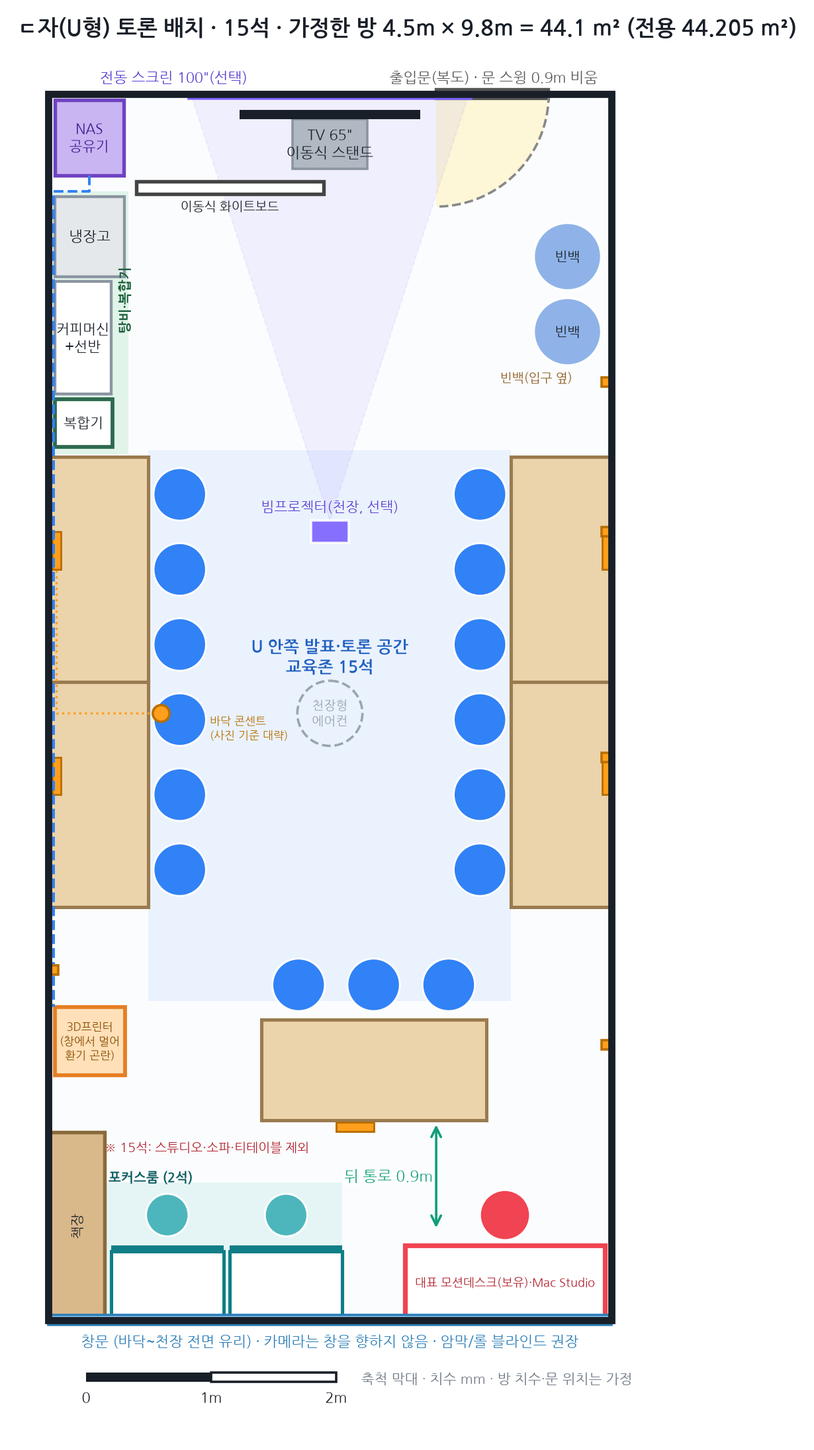
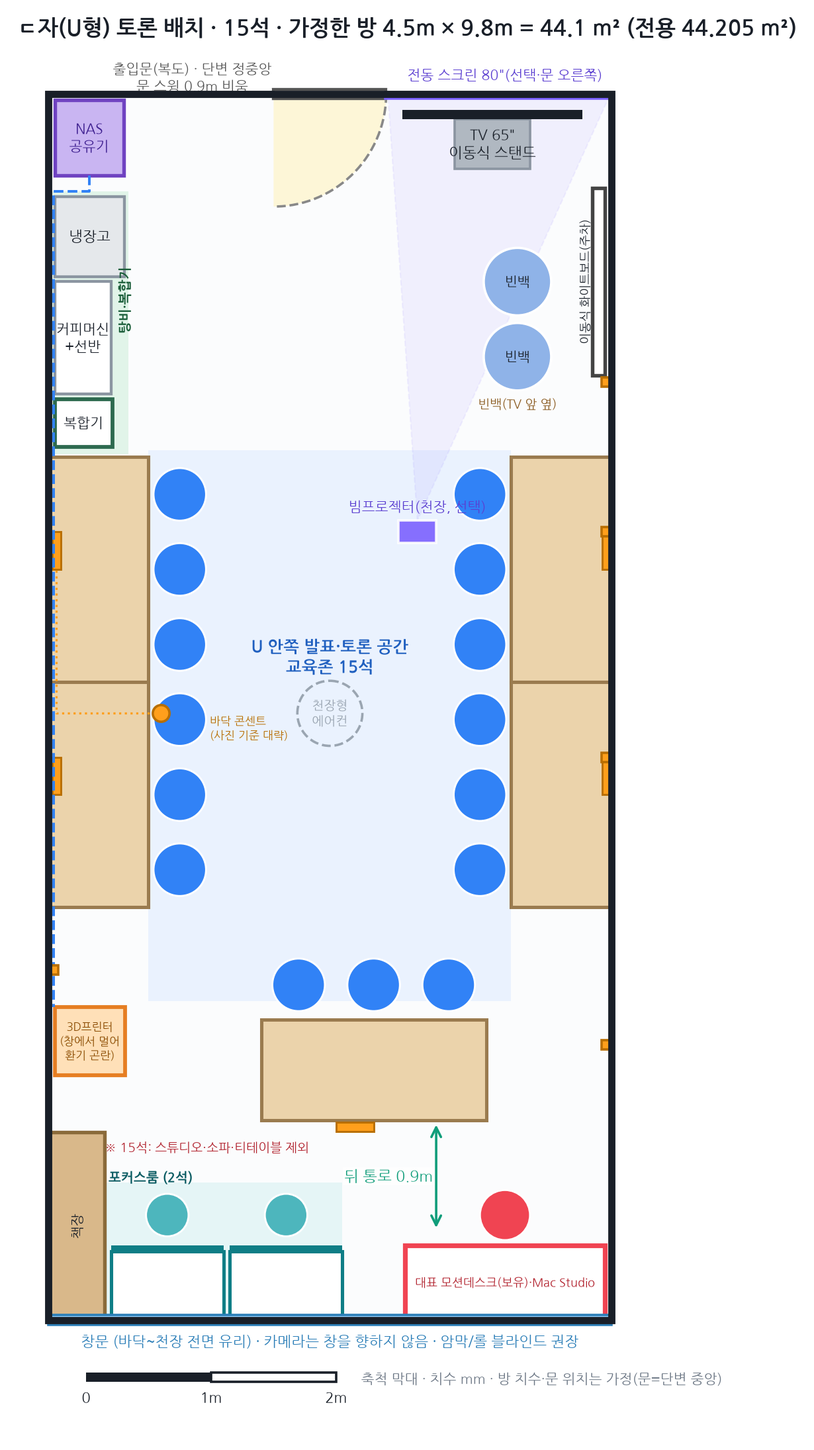
Move entrance door to center of short wall; TV/screen right of door, whiteboard parked on right wall

Changed region(s): [[0.4943, 0.0311, 0.7724, 0.2795], [0.1236, 0.0311, 0.4943, 0.1553], [0.3707, 0.3416, 0.5561, 0.3726]]

diff --git a/index.html b/index.html
@@ -36,7 +36,7 @@
  <div class="eyebrow">한눈에</div>
  <h2>이 공간에 넣을 것들</h2>
  <p class="lead">전용 44.205㎡(약 13.4평) 지식산업센터 사무실에 교육 책상 12석 + 65형 TV, 대표석(모션데스크는 집에 있는 것), 책장 배경 촬영 코너, 포커스룸, 라운지, 탕비·복합기, NAS·공유기, 이동식 화이트보드, 3D 프린터 코너를 넣는 계획이에요.</p>
- <div class="callout warn reveal"><b>가정한 것</b> · 보내주신 방 사진 3장으로 <b>폭 약 4.5m × 길이 약 9.8m = 44.1㎡의 길쭉한 직사각형</b>을 추정했어요(전용 44.205㎡ 기준, 실측 아님). 한쪽 짧은 벽은 <b>바닥~천장 전면 유리창</b>, 반대쪽 짧은 벽에 <b>출입문</b>(중앙에서 살짝 한쪽, 폭 약 0.9m·안쪽 여닫이 가정)이 있고, 바닥 콘센트는 방 중간쯤 한쪽 벽 가까이 1개를 대략 표시했어요. 천장형 에어컨은 중앙. <b>실측치가 오면 배치도를 다시 그릴게요.</b></div>
+ <div class="callout warn reveal"><b>가정한 것</b> · 보내주신 방 사진 3장으로 <b>폭 약 4.5m × 길이 약 9.8m = 44.1㎡의 길쭉한 직사각형</b>을 추정했어요(전용 44.205㎡ 기준, 실측 아님). 한쪽 짧은 벽은 <b>바닥~천장 전면 유리창</b>, 반대쪽 짧은 벽에 <b>출입문</b>(단변 정중앙, 폭 약 0.9m·안쪽 여닫이 가정)이 있고, 바닥 콘센트는 방 중간쯤 한쪽 벽 가까이 1개를 대략 표시했어요. 천장형 에어컨은 중앙. <b>실측치가 오면 배치도를 다시 그릴게요.</b></div>
  <div class="callout reveal" style="margin-top:12px"><b>스타일 가정</b> · 애플 사용자(Mac Studio·MacBook), 깔끔한 미니멀·모던, 유튜브 촬영(유하님과 함께), 화이트/오크/그레이 톤, USB-C·맥 호환 장비를 우선했어요.</div>
  <div class="grid g3p reveal" style="margin-top:20px">
   <div class="card"><h3>배치</h3><p>ㄷ자 12석이 추천. 15석도 그려봤지만 포커스룸·라운지를 거의 포기해야 해요.</p></div>
@@ -51,7 +51,7 @@
  <div class="todo reveal">
   <div class="it hot"><div class="bx"></div><div><b>용달 부르기 — 11/5(목)~11/7(토) 예약 권장 <span class="tg p">TODO</span></b><p>집→사무실로 옮길 짐: <b>NAS</b>, <b>책장</b>, <b>모션데스크</b>(집에 있는 것), 그 밖의 짐(집 책장을 옮기면 구매표의 책장 수량은 줄일 수 있어요). 입주일(2026-11-10, 화) 기준으로 3~5일 전에 예약하는 걸 권장해요. 구매 항목이 아니며 업체·요금은 조사하지 않았어요.</p></div></div>
   <div class="it"><div class="bx"></div><div><b>관리단 업종 확인</b><p>지식산업센터는 입주 가능 업종·시설 사용 규정이 있을 수 있어요. 교육장 운영, 촬영 스튜디오, 3D 프린터(소음·냄새), 이삿짐 엘리베이터 사용 시간을 관리단/관리사무소에 확인하세요.</p></div></div>
-  <div class="it"><div class="bx"></div><div><b>인터넷 개통</b><p>입주 전에 설치 일정을 잡고 공유기·NAS 위치(출입문 쪽 앞 왼쪽 모서리)를 정해두면 첫날부터 쓸 수 있어요.</p></div></div>
+  <div class="it"><div class="bx"></div><div><b>인터넷 개통</b><p>입주 전에 설치 일정을 잡고 공유기·NAS 위치(앞 왼쪽 모서리, 출입문 왼쪽)를 정해두면 첫날부터 쓸 수 있어요.</p></div></div>
   <div class="it"><div class="bx"></div><div><b>전입/사업자 주소</b><p>사업자 주소지·우편물 주소 이전 절차를 확인하세요(필요 서류는 세무서·관리사무소에서 확인).</p></div></div>
   <div class="it"><div class="bx"></div><div><b>NAS 백업 후 이동</b><p>운반 전 중요한 데이터는 별도로 백업해 두세요. NAS는 이삿짐으로 옮기고 사무실에서 공유기 옆에 놓아요.</p></div></div>
   <div class="it"><div class="bx"></div><div><b>실측</b><p>방 가로·세로, 문·창문, 콘센트 위치를 재서 알려주시면 배치도를 확정해요.</p></div></div>
@@ -61,24 +61,24 @@
 <section class="sec" id="layout"><div class="wrap">
  <div class="eyebrow">배치도 · 메인</div>
  <h2>ㄷ자(U형) 토론 12석<br>44.2㎡ 배치도</h2>
- <p class="lead">방이 폭 4.5m로 좁고 길어서, U의 두 다리를 긴 벽에 붙이고 <b>TV는 출입문 쪽 짧은 벽(앞)</b>, U의 바닥(뒤)은 창 쪽으로 잡았어요. 앞 왼쪽이 탕비·복합기·NAS·공유기, 뒤쪽이 대표석+스튜디오·포커스룸·라운지·3D 프린터 코너예요.</p>
+ <p class="lead">방이 폭 4.5m로 좁고 길어서, U의 두 다리를 긴 벽에 붙이고 <b>출입문은 그 짧은 벽(앞) 정중앙, TV는 문 오른쪽</b>, U의 바닥(뒤)은 창 쪽으로 잡았어요. 앞 왼쪽이 탕비·복합기·NAS·공유기, 뒤쪽이 대표석+스튜디오·포커스룸·라운지·3D 프린터 코너예요.</p>
  <div class="lay1 reveal"><figure><a href="assets/img/layout-12.png" target="_blank" rel="noopener"><img src="assets/img/layout-12.png" alt="ㄷ자 12석 배치도" loading="lazy"></a></figure></div>
  <div class="legend reveal"><span><i style="background:#3182F6;border-radius:50%"></i>학습자 의자</span><span><i style="background:#EBD3AB;border:2px solid #9A7B4F"></i>교육 책상</span><span><i style="background:#FFD9DE;border:2px solid #F04452"></i>대표석·스튜디오</span><span><i style="background:#D3F1F2"></i>포커스룸</span><span><i style="background:#FF9F1C"></i>멀티탭(주황 점선=케이블)</span><span><i style="background:#3182F6;opacity:.5"></i>파란 점선=유선 LAN</span><span><i style="background:#7B61FF"></i>빔프로젝터·스크린(선택)</span></div>
  <ul class="checks reveal" style="margin-top:20px">
   <li class="ok"><b>+</b><span>책상 1800×800 4개(3석씩) = 12석: 왼쪽 벽 1개, 오른쪽 벽 1개, 뒤쪽(창 쪽) 2개. U 안쪽 의자 중심 간격 약 2.4m라 앞에서 강사가 서서 수업하기 좋아요.</span></li>
-  <li class="ok"><b>+</b><span>TV~학습자 거리: 가장 가까운 자리 3.0m, 가장 먼 자리 5.3m(65형 화면 높이 809mm 기준 약 3.8×~6.5×) — 권장 4~8× 안. 창이 학습자 뒤라서 TV에 빛이 반사되지 않아요.</span></li>
+  <li class="ok"><b>+</b><span>TV~학습자 거리: 가장 가까운 자리 2.8m, 가장 먼 자리 5.9m(65형 화면 높이 809mm 기준 약 3.5×~7.3×) — 권장 4~8× 안. 창이 학습자 뒤라서 TV에 빛이 반사되지 않아요.</span></li>
   <li class="wn"><b>!</b><span>양쪽 다리(6석)는 의자가 U 안쪽을 향해서 TV를 보려면 몸을 많이 돌려야 해요(약 65~75°). 회전의자·의자 각도 조정이 필요하고, 뒤쪽 6석이 TV를 정면으로 봐요. 좁은 방의 구조적 한계예요.</span></li>
   <li class="wn"><b>!</b><span>통로 점검: 책상 뒤 통로 0.9m, 오른쪽 다리 끝~뒤쪽 책상 사이 0.9m + 오른쪽 벽 통로 0.9m, 출입문 스윙 반경 0.9m는 가구 없이 비움(배치도 노란 부채꼴). 뒤쪽 공간으로 가려면 U 안쪽을 지나 오른쪽 벽 통로로 가야 해서, <b>수업 중 이동은 불편</b>해요(수업 시작 전 입장 권장).</span></li>
-  <li class="wn"><b>!</b><span>TV를 앞(출입문 쪽)에 둔 대신 문이 TV 옆 오른쪽에 있어요. 늦게 오는 사람은 앞쪽 오른쪽 모서리로 들어와 U 안쪽을 지나요. TV는 문 반대쪽(문 열림 반경 밖)에 붙였어요.</span></li>
+  <li class="wn"><b>!</b><span>문이 앞 벽 정중앙이라 늦게 오는 사람은 U 안쪽 한가운데로 바로 들어와요. TV(와 선택 스크린 80형)는 문 열림 반경 밖인 문 오른쪽 벽에 붙였고, 이동식 화이트보드는 오른쪽 벽(세로)에 세워 두었어요. TV가 정면이 아니라 오른쪽으로 치우쳐서, 왼쪽 다리 학습자는 화면을 약간 비스듬히 봐요(TV 스탠드를 살짝 돌려 두면 돼요).</span></li>
   <li><b>·</b><span>빔프로젝터는 천장 설치(선택) → 앞 벽 천장에서 내려오는 100형 전동 스크린. TV와 번갈아 쓰는 구성이라 둘 다 쓰는 날에는 TV를 옆으로 옮겨요.</span></li>
   <li><b>·</b><span>프린터(나중)는 복합기 옆, 3D 프린터는 창 쪽 오른쪽 모서리(환기), 모션데스크는 보유품이고 Mac Studio·키보드·마우스를 올려둔 모습으로 그렸어요. 바닥 콘센트 연결선은 오렌지 점선이에요.</span></li>
  </ul>
- <div class="callout reveal" style="margin-top:14px"><b>TV 위치, 이렇게 골랐어요</b> · ① 창 쪽 짧은 벽: 역광·반사로 탈락(요청대로 제외). ② 긴 벽: 폭이 4.5m라 U가 안 나오고 앞줄이 TV에 1.8m까지 붙어 탈락. ③ <b>출입문 쪽 짧은 벽(채택)</b>: 창이 학습자 뒤라 반사가 없고 TV 거리 3.0~5.3m가 나와요. 대신 문이 TV 옆이라 늦게 오는 사람이 앞을 지나요.</div>
+ <div class="callout reveal" style="margin-top:14px"><b>TV 위치, 이렇게 골랐어요</b> · ① 창 쪽 짧은 벽: 역광·반사로 탈락(요청대로 제외). ② 긴 벽: 폭이 4.5m라 U가 안 나오고 앞줄이 TV에 1.8m까지 붙어 탈락. ③ <b>출입문 쪽 짧은 벽(채택)</b>: 창이 학습자 뒤라 반사가 없어요. 문이 정중앙이라 TV는 문 오른쪽으로 비켜 앉혔고(거리 2.8~5.9m), 대신 TV가 정면에서 약간 치우쳐요.</div>
  <p class="small" style="margin-top:10px">스탠드얼론 이미지: <a href="assets/img/layout-12.png" target="_blank" rel="noopener">layout-12.png ↗</a></p>
 
  <h3 class="sub3" style="margin-top:40px">15석 변형 (참고)</h3>
  <div class="lay1 reveal"><figure><a href="assets/img/layout-15.png" target="_blank" rel="noopener"><img src="assets/img/layout-15.png" alt="ㄷ자 15석 배치도" loading="lazy"></a></figure></div>
- <div class="callout warn reveal" style="margin-top:16px"><b>솔직하게</b> · 15석(책상 5개)은 양쪽 벽에 책상을 2개씩 잇고 뒤쪽 1개를 놓아야 해서 <b>스튜디오(카메라 거리)·소파·티테이블을 뺐고</b>, 포커스룸 2석·대표 데스크는 창가로 눕혔어요. 3D 프린터는 창에서 멀어져 환기가 어렵고, 의자를 빼면 뒤 통로가 0.9m에서 약 0.7m로 줄어요. 가장 먼 자리는 TV에서 6.8m(8.4×)로 65형 한계를 살짝 넘어요. <b>12석을 추천해요.</b></div>
+ <div class="callout warn reveal" style="margin-top:16px"><b>솔직하게</b> · 15석(책상 5개)은 양쪽 벽에 책상을 2개씩 잇고 뒤쪽 1개를 놓아야 해서 <b>스튜디오(카메라 거리)·소파·티테이블을 뺐고</b>, 포커스룸 2석·대표 데스크는 창가로 눕혔어요. 3D 프린터는 창에서 멀어져 환기가 어렵고, 의자를 빼면 뒤 통로가 0.9m에서 약 0.7m로 줄어요. 가장 먼 자리는 TV에서 6.9m(8.5×)로 65형 한계를 살짝 넘어요. <b>12석을 추천해요.</b></div>
 </div></section>
 
 <section class="sec alt" id="buy"><div class="wrap">
@@ -181,14 +181,14 @@
  <h3 class="sub3">이동식 스탠드</h3><div class="grid g2p reveal"><article class="card prod reveal"><div class="ph"><img src="assets/img/p-nsan-fs64b.jpg" alt=" 엔산마운트 FS-64B 상품 사진" loading="lazy" width="720" height="540"></div><div class="bd"><div class="model"></div><h3>엔산마운트 FS-64B</h3><div class="price">188,000원</div><div class="pnote">공식몰 표기가, 무료배송(VIP 제외) · 2026.11.01</div><dl class="spec"><dt>적용</dt><dd>40~70형 · TV 40kg</dd><dt>VESA</dt><dd>최대 600×400</dd><dt>높이</dt><dd>VESA 중심 1200~1500mm</dd><dt>기능</dt><dd>바퀴·선반·높이조절</dd></dl><div class="flags"><span class="tag ok">65형 가능</span></div><div class="links"><a class="" href="https://www.nsan.co.kr/goods/goods_view.php?goodsNo=1000001322" target="_blank" rel="noopener">엔산 공식몰 ↗</a></div><div class="credit">사진: 엔산마운트 공식몰</div></div></article><article class="card prod reveal"><div class="ph none">상품 사진을 확인하지 못했어요<br>(판매 페이지 링크 참고)</div><div class="bd"><div class="model"></div><h3>아이존 TFC-8060 이동형 거치대</h3><div class="price">157,500원</div><div class="pnote">제조사 몰 목록 표기가 · 2026.11.01</div><dl class="spec"><dt>적용</dt><dd>50~100형</dd><dt>하중</dt><dd>100kg</dd></dl><div class="flags"><span class="tag warn">사진·상세 사양은 카테고리 목록에서 확인 못함</span></div><div class="links"><a class="" href="https://eyezoneind.com/category/tv%EA%B1%B0%EC%B9%98%EB%8C%80/167/" target="_blank" rel="noopener">아이존 TV거치대 목록 ↗</a></div></div></article></div>
  <h3 class="sub3">시청거리 (AVIXA DISCAS 4:6:8)</h3>
  <div class="tbl reveal"><table><thead><tr><th>기준</th><th>65형</th><th>55형</th></tr></thead><tbody><tr><td>4×</td><td>3.2m</td><td>2.7m</td></tr><tr><td>6×</td><td>4.9m</td><td>4.1m</td></tr><tr><td>8×</td><td>6.5m</td><td>5.5m</td></tr></tbody></table></div>
- <div class="callout reveal" style="margin-top:14px"><b>이 배치에서는</b> · 12석: 가까운 3.0m ~ 먼 5.3m라 65형이면 충분해요. 15석은 가장 먼 자리 6.8m(8.4×)로 한계에 가까워요. 대표 모션데스크 4종 비교는 보유품을 쓰기로 해서 뺐어요.</div>
+ <div class="callout reveal" style="margin-top:14px"><b>이 배치에서는</b> · 12석: 가까운 2.8m ~ 먼 5.9m라 65형이면 충분해요. 15석은 가장 먼 자리 6.9m(8.5×)로 한계에 가까워요. 대표 모션데스크 4종 비교는 보유품을 쓰기로 해서 뺐어요.</div>
 </div></section>
 
 <section class="sec alt" id="sources"><div class="wrap">
  <div class="eyebrow">출처와 미확인</div>
  <h2>확인하지 못한 것</h2>
  <ul class="checks reveal">
-  <li class="wn"><b>!</b><span>방 치수·문·창·콘센트: 사진으로 추정한 값(약 4.5×9.8m). 문 위치(출입문 쪽 오른쪽)·여닫이 방향·바닥 콘센트 위치는 정확하지 않아요. 배치도의 의자·책상 간격은 그 가정 기준이에요.</span></li>
+  <li class="wn"><b>!</b><span>방 치수·문·창·콘센트: 사진으로 추정한 값(약 4.5×9.8m). 문 위치(출입문 쪽 단변 중앙)·여닫이 방향·바닥 콘센트 위치는 정확하지 않아요. 배치도의 의자·책상 간격은 그 가정 기준이에요.</span></li>
   <li class="wn"><b>!</b><span>소파 치수: 일룸 코모·이안가구 론디 모두 정확한 치수를 확인하지 못함 → 도면 크기는 추정(1400×850).</span></li>
   <li class="wn"><b>!</b><span>한샘 플롯 책장세트 크기가 1세트 기준인지 미확인. 이케아 BILLY의 다나와 가격은 오래된 판매처 표기일 수 있어 공식가 재확인 필요.</span></li>
   <li class="wn"><b>!</b><span>화이트보드 두 제품 모두 캐스터 여부를 상세 확인하지 못함. 룸앤오피스 책상 높이·캐스터 미확인.</span></li>

diff --git a/work/build.py b/work/build.py
@@ -136,7 +136,7 @@ html_out=f'''<!doctype html>
  <div class="eyebrow">한눈에</div>
  <h2>이 공간에 넣을 것들</h2>
  <p class="lead">전용 44.205㎡(약 13.4평) 지식산업센터 사무실에 교육 책상 12석 + 65형 TV, 대표석(모션데스크는 집에 있는 것), 책장 배경 촬영 코너, 포커스룸, 라운지, 탕비·복합기, NAS·공유기, 이동식 화이트보드, 3D 프린터 코너를 넣는 계획이에요.</p>
- <div class="callout warn reveal"><b>가정한 것</b> · 보내주신 방 사진 3장으로 <b>폭 약 4.5m × 길이 약 9.8m = 44.1㎡의 길쭉한 직사각형</b>을 추정했어요(전용 44.205㎡ 기준, 실측 아님). 한쪽 짧은 벽은 <b>바닥~천장 전면 유리창</b>, 반대쪽 짧은 벽에 <b>출입문</b>(중앙에서 살짝 한쪽, 폭 약 0.9m·안쪽 여닫이 가정)이 있고, 바닥 콘센트는 방 중간쯤 한쪽 벽 가까이 1개를 대략 표시했어요. 천장형 에어컨은 중앙. <b>실측치가 오면 배치도를 다시 그릴게요.</b></div>
+ <div class="callout warn reveal"><b>가정한 것</b> · 보내주신 방 사진 3장으로 <b>폭 약 4.5m × 길이 약 9.8m = 44.1㎡의 길쭉한 직사각형</b>을 추정했어요(전용 44.205㎡ 기준, 실측 아님). 한쪽 짧은 벽은 <b>바닥~천장 전면 유리창</b>, 반대쪽 짧은 벽에 <b>출입문</b>(단변 정중앙, 폭 약 0.9m·안쪽 여닫이 가정)이 있고, 바닥 콘센트는 방 중간쯤 한쪽 벽 가까이 1개를 대략 표시했어요. 천장형 에어컨은 중앙. <b>실측치가 오면 배치도를 다시 그릴게요.</b></div>
  <div class="callout reveal" style="margin-top:12px"><b>스타일 가정</b> · 애플 사용자(Mac Studio·MacBook), 깔끔한 미니멀·모던, 유튜브 촬영(유하님과 함께), 화이트/오크/그레이 톤, USB-C·맥 호환 장비를 우선했어요.</div>
  <div class="grid g3p reveal" style="margin-top:20px">
   <div class="card"><h3>배치</h3><p>ㄷ자 12석이 추천. 15석도 그려봤지만 포커스룸·라운지를 거의 포기해야 해요.</p></div>
@@ -151,7 +151,7 @@ html_out=f'''<!doctype html>
  <div class="todo reveal">
   <div class="it hot"><div class="bx"></div><div><b>용달 부르기 — 11/5(목)~11/7(토) 예약 권장 <span class="tg p">TODO</span></b><p>집→사무실로 옮길 짐: <b>NAS</b>, <b>책장</b>, <b>모션데스크</b>(집에 있는 것), 그 밖의 짐(집 책장을 옮기면 구매표의 책장 수량은 줄일 수 있어요). 입주일(2026-11-10, 화) 기준으로 3~5일 전에 예약하는 걸 권장해요. 구매 항목이 아니며 업체·요금은 조사하지 않았어요.</p></div></div>
   <div class="it"><div class="bx"></div><div><b>관리단 업종 확인</b><p>지식산업센터는 입주 가능 업종·시설 사용 규정이 있을 수 있어요. 교육장 운영, 촬영 스튜디오, 3D 프린터(소음·냄새), 이삿짐 엘리베이터 사용 시간을 관리단/관리사무소에 확인하세요.</p></div></div>
-  <div class="it"><div class="bx"></div><div><b>인터넷 개통</b><p>입주 전에 설치 일정을 잡고 공유기·NAS 위치(출입문 쪽 앞 왼쪽 모서리)를 정해두면 첫날부터 쓸 수 있어요.</p></div></div>
+  <div class="it"><div class="bx"></div><div><b>인터넷 개통</b><p>입주 전에 설치 일정을 잡고 공유기·NAS 위치(앞 왼쪽 모서리, 출입문 왼쪽)를 정해두면 첫날부터 쓸 수 있어요.</p></div></div>
   <div class="it"><div class="bx"></div><div><b>전입/사업자 주소</b><p>사업자 주소지·우편물 주소 이전 절차를 확인하세요(필요 서류는 세무서·관리사무소에서 확인).</p></div></div>
   <div class="it"><div class="bx"></div><div><b>NAS 백업 후 이동</b><p>운반 전 중요한 데이터는 별도로 백업해 두세요. NAS는 이삿짐으로 옮기고 사무실에서 공유기 옆에 놓아요.</p></div></div>
   <div class="it"><div class="bx"></div><div><b>실측</b><p>방 가로·세로, 문·창문, 콘센트 위치를 재서 알려주시면 배치도를 확정해요.</p></div></div>
@@ -161,7 +161,7 @@ html_out=f'''<!doctype html>
 <section class="sec" id="layout"><div class="wrap">
  <div class="eyebrow">배치도 · 메인</div>
  <h2>ㄷ자(U형) 토론 12석<br>44.2㎡ 배치도</h2>
- <p class="lead">방이 폭 4.5m로 좁고 길어서, U의 두 다리를 긴 벽에 붙이고 <b>TV는 출입문 쪽 짧은 벽(앞)</b>, U의 바닥(뒤)은 창 쪽으로 잡았어요. 앞 왼쪽이 탕비·복합기·NAS·공유기, 뒤쪽이 대표석+스튜디오·포커스룸·라운지·3D 프린터 코너예요.</p>
+ <p class="lead">방이 폭 4.5m로 좁고 길어서, U의 두 다리를 긴 벽에 붙이고 <b>출입문은 그 짧은 벽(앞) 정중앙, TV는 문 오른쪽</b>, U의 바닥(뒤)은 창 쪽으로 잡았어요. 앞 왼쪽이 탕비·복합기·NAS·공유기, 뒤쪽이 대표석+스튜디오·포커스룸·라운지·3D 프린터 코너예요.</p>
  <div class="lay1 reveal"><figure><a href="assets/img/layout-12.png" target="_blank" rel="noopener"><img src="assets/img/layout-12.png" alt="ㄷ자 12석 배치도" loading="lazy"></a></figure></div>
  <div class="legend reveal"><span><i style="background:#3182F6;border-radius:50%"></i>학습자 의자</span><span><i style="background:#EBD3AB;border:2px solid #9A7B4F"></i>교육 책상</span><span><i style="background:#FFD9DE;border:2px solid #F04452"></i>대표석·스튜디오</span><span><i style="background:#D3F1F2"></i>포커스룸</span><span><i style="background:#FF9F1C"></i>멀티탭(주황 점선=케이블)</span><span><i style="background:#3182F6;opacity:.5"></i>파란 점선=유선 LAN</span><span><i style="background:#7B61FF"></i>빔프로젝터·스크린(선택)</span></div>
  <ul class="checks reveal" style="margin-top:20px">
@@ -169,11 +169,11 @@ html_out=f'''<!doctype html>
   <li class="ok"><b>+</b><span>TV~학습자 거리: 가장 가까운 자리 {S12["eye_min"]/1000:.1f}m, 가장 먼 자리 {S12["eye_max"]/1000:.1f}m(65형 화면 높이 809mm 기준 약 {S12["eye_min"]/809:.1f}×~{S12["eye_max"]/809:.1f}×) — 권장 4~8× 안. 창이 학습자 뒤라서 TV에 빛이 반사되지 않아요.</span></li>
   <li class="wn"><b>!</b><span>양쪽 다리(6석)는 의자가 U 안쪽을 향해서 TV를 보려면 몸을 많이 돌려야 해요(약 65~75°). 회전의자·의자 각도 조정이 필요하고, 뒤쪽 6석이 TV를 정면으로 봐요. 좁은 방의 구조적 한계예요.</span></li>
   <li class="wn"><b>!</b><span>통로 점검: 책상 뒤 통로 0.9m, 오른쪽 다리 끝~뒤쪽 책상 사이 0.9m + 오른쪽 벽 통로 0.9m, 출입문 스윙 반경 0.9m는 가구 없이 비움(배치도 노란 부채꼴). 뒤쪽 공간으로 가려면 U 안쪽을 지나 오른쪽 벽 통로로 가야 해서, <b>수업 중 이동은 불편</b>해요(수업 시작 전 입장 권장).</span></li>
-  <li class="wn"><b>!</b><span>TV를 앞(출입문 쪽)에 둔 대신 문이 TV 옆 오른쪽에 있어요. 늦게 오는 사람은 앞쪽 오른쪽 모서리로 들어와 U 안쪽을 지나요. TV는 문 반대쪽(문 열림 반경 밖)에 붙였어요.</span></li>
+  <li class="wn"><b>!</b><span>문이 앞 벽 정중앙이라 늦게 오는 사람은 U 안쪽 한가운데로 바로 들어와요. TV(와 선택 스크린 80형)는 문 열림 반경 밖인 문 오른쪽 벽에 붙였고, 이동식 화이트보드는 오른쪽 벽(세로)에 세워 두었어요. TV가 정면이 아니라 오른쪽으로 치우쳐서, 왼쪽 다리 학습자는 화면을 약간 비스듬히 봐요(TV 스탠드를 살짝 돌려 두면 돼요).</span></li>
   <li><b>·</b><span>빔프로젝터는 천장 설치(선택) → 앞 벽 천장에서 내려오는 100형 전동 스크린. TV와 번갈아 쓰는 구성이라 둘 다 쓰는 날에는 TV를 옆으로 옮겨요.</span></li>
   <li><b>·</b><span>프린터(나중)는 복합기 옆, 3D 프린터는 창 쪽 오른쪽 모서리(환기), 모션데스크는 보유품이고 Mac Studio·키보드·마우스를 올려둔 모습으로 그렸어요. 바닥 콘센트 연결선은 오렌지 점선이에요.</span></li>
  </ul>
- <div class="callout reveal" style="margin-top:14px"><b>TV 위치, 이렇게 골랐어요</b> · ① 창 쪽 짧은 벽: 역광·반사로 탈락(요청대로 제외). ② 긴 벽: 폭이 4.5m라 U가 안 나오고 앞줄이 TV에 1.8m까지 붙어 탈락. ③ <b>출입문 쪽 짧은 벽(채택)</b>: 창이 학습자 뒤라 반사가 없고 TV 거리 3.0~5.3m가 나와요. 대신 문이 TV 옆이라 늦게 오는 사람이 앞을 지나요.</div>
+ <div class="callout reveal" style="margin-top:14px"><b>TV 위치, 이렇게 골랐어요</b> · ① 창 쪽 짧은 벽: 역광·반사로 탈락(요청대로 제외). ② 긴 벽: 폭이 4.5m라 U가 안 나오고 앞줄이 TV에 1.8m까지 붙어 탈락. ③ <b>출입문 쪽 짧은 벽(채택)</b>: 창이 학습자 뒤라 반사가 없어요. 문이 정중앙이라 TV는 문 오른쪽으로 비켜 앉혔고(거리 2.8~5.9m), 대신 TV가 정면에서 약간 치우쳐요.</div>
  <p class="small" style="margin-top:10px">스탠드얼론 이미지: <a href="assets/img/layout-12.png" target="_blank" rel="noopener">layout-12.png ↗</a></p>
 
  <h3 class="sub3" style="margin-top:40px">15석 변형 (참고)</h3>
@@ -288,7 +288,7 @@ html_out=f'''<!doctype html>
  <div class="eyebrow">출처와 미확인</div>
  <h2>확인하지 못한 것</h2>
  <ul class="checks reveal">
-  <li class="wn"><b>!</b><span>방 치수·문·창·콘센트: 사진으로 추정한 값(약 4.5×9.8m). 문 위치(출입문 쪽 오른쪽)·여닫이 방향·바닥 콘센트 위치는 정확하지 않아요. 배치도의 의자·책상 간격은 그 가정 기준이에요.</span></li>
+  <li class="wn"><b>!</b><span>방 치수·문·창·콘센트: 사진으로 추정한 값(약 4.5×9.8m). 문 위치(출입문 쪽 단변 중앙)·여닫이 방향·바닥 콘센트 위치는 정확하지 않아요. 배치도의 의자·책상 간격은 그 가정 기준이에요.</span></li>
   <li class="wn"><b>!</b><span>소파 치수: 일룸 코모·이안가구 론디 모두 정확한 치수를 확인하지 못함 → 도면 크기는 추정(1400×850).</span></li>
   <li class="wn"><b>!</b><span>한샘 플롯 책장세트 크기가 1세트 기준인지 미확인. 이케아 BILLY의 다나와 가격은 오래된 판매처 표기일 수 있어 공식가 재확인 필요.</span></li>
   <li class="wn"><b>!</b><span>화이트보드 두 제품 모두 캐스터 여부를 상세 확인하지 못함. 룸앤오피스 책상 높이·캐스터 미확인.</span></li>

diff --git a/work/layouts5.py b/work/layouts5.py
@@ -29,17 +29,17 @@ def build(mode):
     R(ax,0,0,W,H,"#FBFCFD",z=0)
     # ---------- window (bottom short wall) / door (top short wall)
     R(ax,0,H-40,W,80,"#9AD3FF","#2C7FB8",1,z=6); T(ax,W/2,H+170,"창문 (바닥~천장 전면 유리) · 카메라는 창을 향하지 않음 · 암막/롤 블라인드 권장",fs=6.2,c="#2C7FB8")
-    DX0,DX1=3100,4000
+    DX0,DX1=1800,2700   # 문: 짧은 벽(앞) 정중앙 (W/2=2250 기준 폭 900)
     R(ax,DX0,-35,DX1-DX0,70,"#FFFFFF","#555",1.2,z=7)
     ax.add_patch(Arc((DX0,0),1800,1800,theta1=0,theta2=90,color="#888",lw=1,ls="--",zorder=7))
     ax.plot([DX0,DX0+900],[0,0],color="#555",lw=1.2,zorder=7)
     ax.add_patch(Wedge((DX0,0),900,0,90,fc="#FFF3BF",alpha=.6,ec="none",zorder=2))
-    T(ax,3560,-130,"출입문(복도) · 문 스윙 0.9m 비움",fs=6.0,c="#555")
+    T(ax,1150,-130,"출입문(복도) · 단변 정중앙\n문 스윙 0.9m 비움",fs=5.8,c="#555")
     # ---------- front wall: TV, screen
-    R(ax,1530,130,1440,70,INK,z=6)
-    R(ax,1950,200,600,400,"#B0B8C1","#8B95A1",1,z=5); T(ax,2250,400,"TV 65\"\n이동식 스탠드",fs=6.0)
-    ax.plot([1143,3357],[18,18],color="#7B61FF",lw=3.2,zorder=8)
-    T(ax,1000,-130,"전동 스크린 100\"(선택)",fs=6.0,c="#5B3FD1")
+    R(ax,2830,130,1440,70,INK,z=6)
+    R(ax,3250,200,600,400,"#B0B8C1","#8B95A1",1,z=5); T(ax,3550,400,"TV 65\"\n이동식 스탠드",fs=6.0)
+    ax.plot([2715,4485],[18,18],color="#7B61FF",lw=3.2,zorder=8)
+    T(ax,3650,-150,"전동 스크린 80\"(선택·문 오른쪽)",fs=5.8,c="#5B3FD1")
     # ---------- service wall (left, front)
     R(ax,50,820,555,640,"#E5E8EB","#8B95A1",1.2,z=5); T(ax,330,1140,"냉장고",fs=6.0)
     R(ax,50,1500,450,900,"#FFFFFF","#8B95A1",1.2,z=5); T(ax,275,1950,"커피머신\n+선반",fs=5.8)
@@ -50,11 +50,11 @@ def build(mode):
     if mode==12:
         R(ax,640,2440,330,380,"#FFFFFF","#2D6A4F",1,z=5,ls="--"); T(ax,805,2630,"프린터\n(나중)",fs=5.0,c="#2D6A4F")
     # whiteboard parked
-    R(ax,700,700,1500,100,"#FFFFFF","#444",1.5,z=5); T(ax,1450,900,"이동식 화이트보드",fs=5.2)
+    R(ax,4350,750,100,1500,"#FFFFFF","#444",1.5,z=5); T(ax,4290,1500,"이동식 화이트보드(주차)",fs=5.0,rotation=90)
     # ---------- projector (ceiling)
-    px,py=2250,3500
+    px,py=2950,3500
     ax.add_patch(Rectangle((px-150,py-90),300,180,fc="#7B61FF",ec="white",zorder=8,alpha=.9)); T(ax,px,py-200,"빔프로젝터(천장, 선택)",fs=5.8,c="#5B3FD1")
-    ax.add_patch(Polygon([[px,py-90],[1143,18],[3357,18]],fc="#7B61FF",alpha=.08,ec="#7B61FF",lw=.6,ls="--",zorder=2))
+    ax.add_patch(Polygon([[px,py-90],[2715,18],[4485,18]],fc="#7B61FF",alpha=.08,ec="#7B61FF",lw=.6,ls="--",zorder=2))
     # ---------- ceiling AC + floor outlet (from photos)
     ax.add_patch(Circle((2250,4950),260,fc="none",ec="#9AA5B1",lw=1,ls="--",zorder=4)); T(ax,2250,4950,"천장형\n에어컨",fs=5.2,c="#9AA5B1")
     FX,FY=900,4950
@@ -147,20 +147,20 @@ def build(mode):
             ax.add_patch(Circle((x+450,8870+0),0,fc="none"))
         for x in (950,1900): chair(ax,x,8960,"#4DB6BD",r=170)
         R(ax,50,7300,560,540,"#FFE0B8","#E67E22",1.6,z=5); T(ax,330,7570,"3D프린터\n(창에서 멀어\n환기 곤란)",fs=4.8,c="#8A4B00")
-        bean(ax,4150,1300); bean(ax,4150,1900)
-        T(ax,3900,2270,"빈백(입구 옆)",fs=5.2,c="#8A5A1F")
+        bean(ax,3750,1500); bean(ax,3750,2100)
+        T(ax,3750,2480,"빈백(TV 앞 옆)",fs=5.2,c="#8A5A1F")
         ax.plot([325,325,40,40],[650,780,780,7300],color=BLUE,lw=1.1,ls="--",zorder=7)
         T(ax,450,8420,"※ 15석: 스튜디오·소파·티테이블 제외",fs=5.4,c="#B1202C",ha="left")
         dim(ax,3100,8200,3100,9100,"뒤 통로 0.9m",dx=-380)
     # ---------- scale, title
     R(ax,300,H+420,1000,70,INK,z=8); R(ax,1300,H+420,1000,70,"white",INK,1,z=8)
     T(ax,300,H+620,"0",fs=6.0); T(ax,1300,H+620,"1m",fs=6.0); T(ax,2300,H+620,"2m",fs=6.0)
-    T(ax,2500,H+470,"축척 막대 · 치수 mm · 방 치수·문 위치는 가정",fs=5.8,c=GRAY,ha="left")
+    T(ax,2500,H+470,"축척 막대 · 치수 mm · 방 치수·문 위치는 가정(문=단변 중앙)",fs=5.8,c=GRAY,ha="left")
     ax.add_patch(Rectangle((0,0),W,H,fc="none",ec=INK,lw=3,zorder=10))
     ax.set_xlim(-250,W+250); ax.set_ylim(H+900,-350); ax.set_aspect("equal"); ax.axis("off")
     ax.set_title(f"ㄷ자(U형) 토론 배치 · {seats}석 · 가정한 방 4.5m × 9.8m = 44.1 m² (전용 44.205 m²)",fontsize=9,color=INK,loc="left",fontweight="bold")
     fig.savefig(OUT+f"layout-{mode}.png",bbox_inches="tight",facecolor="white"); plt.close(fig)
-    d=[math.hypot(c[0]-2250,c[1]-400) for c in ch]
+    d=[math.hypot(c[0]-3550,c[1]-400) for c in ch]
     stats[mode]=dict(seats=seats,tables=len(LT+RT+BT),eye_min=round(min(d)),eye_max=round(max(d)))
 stats={}
 build(12); build(15)
